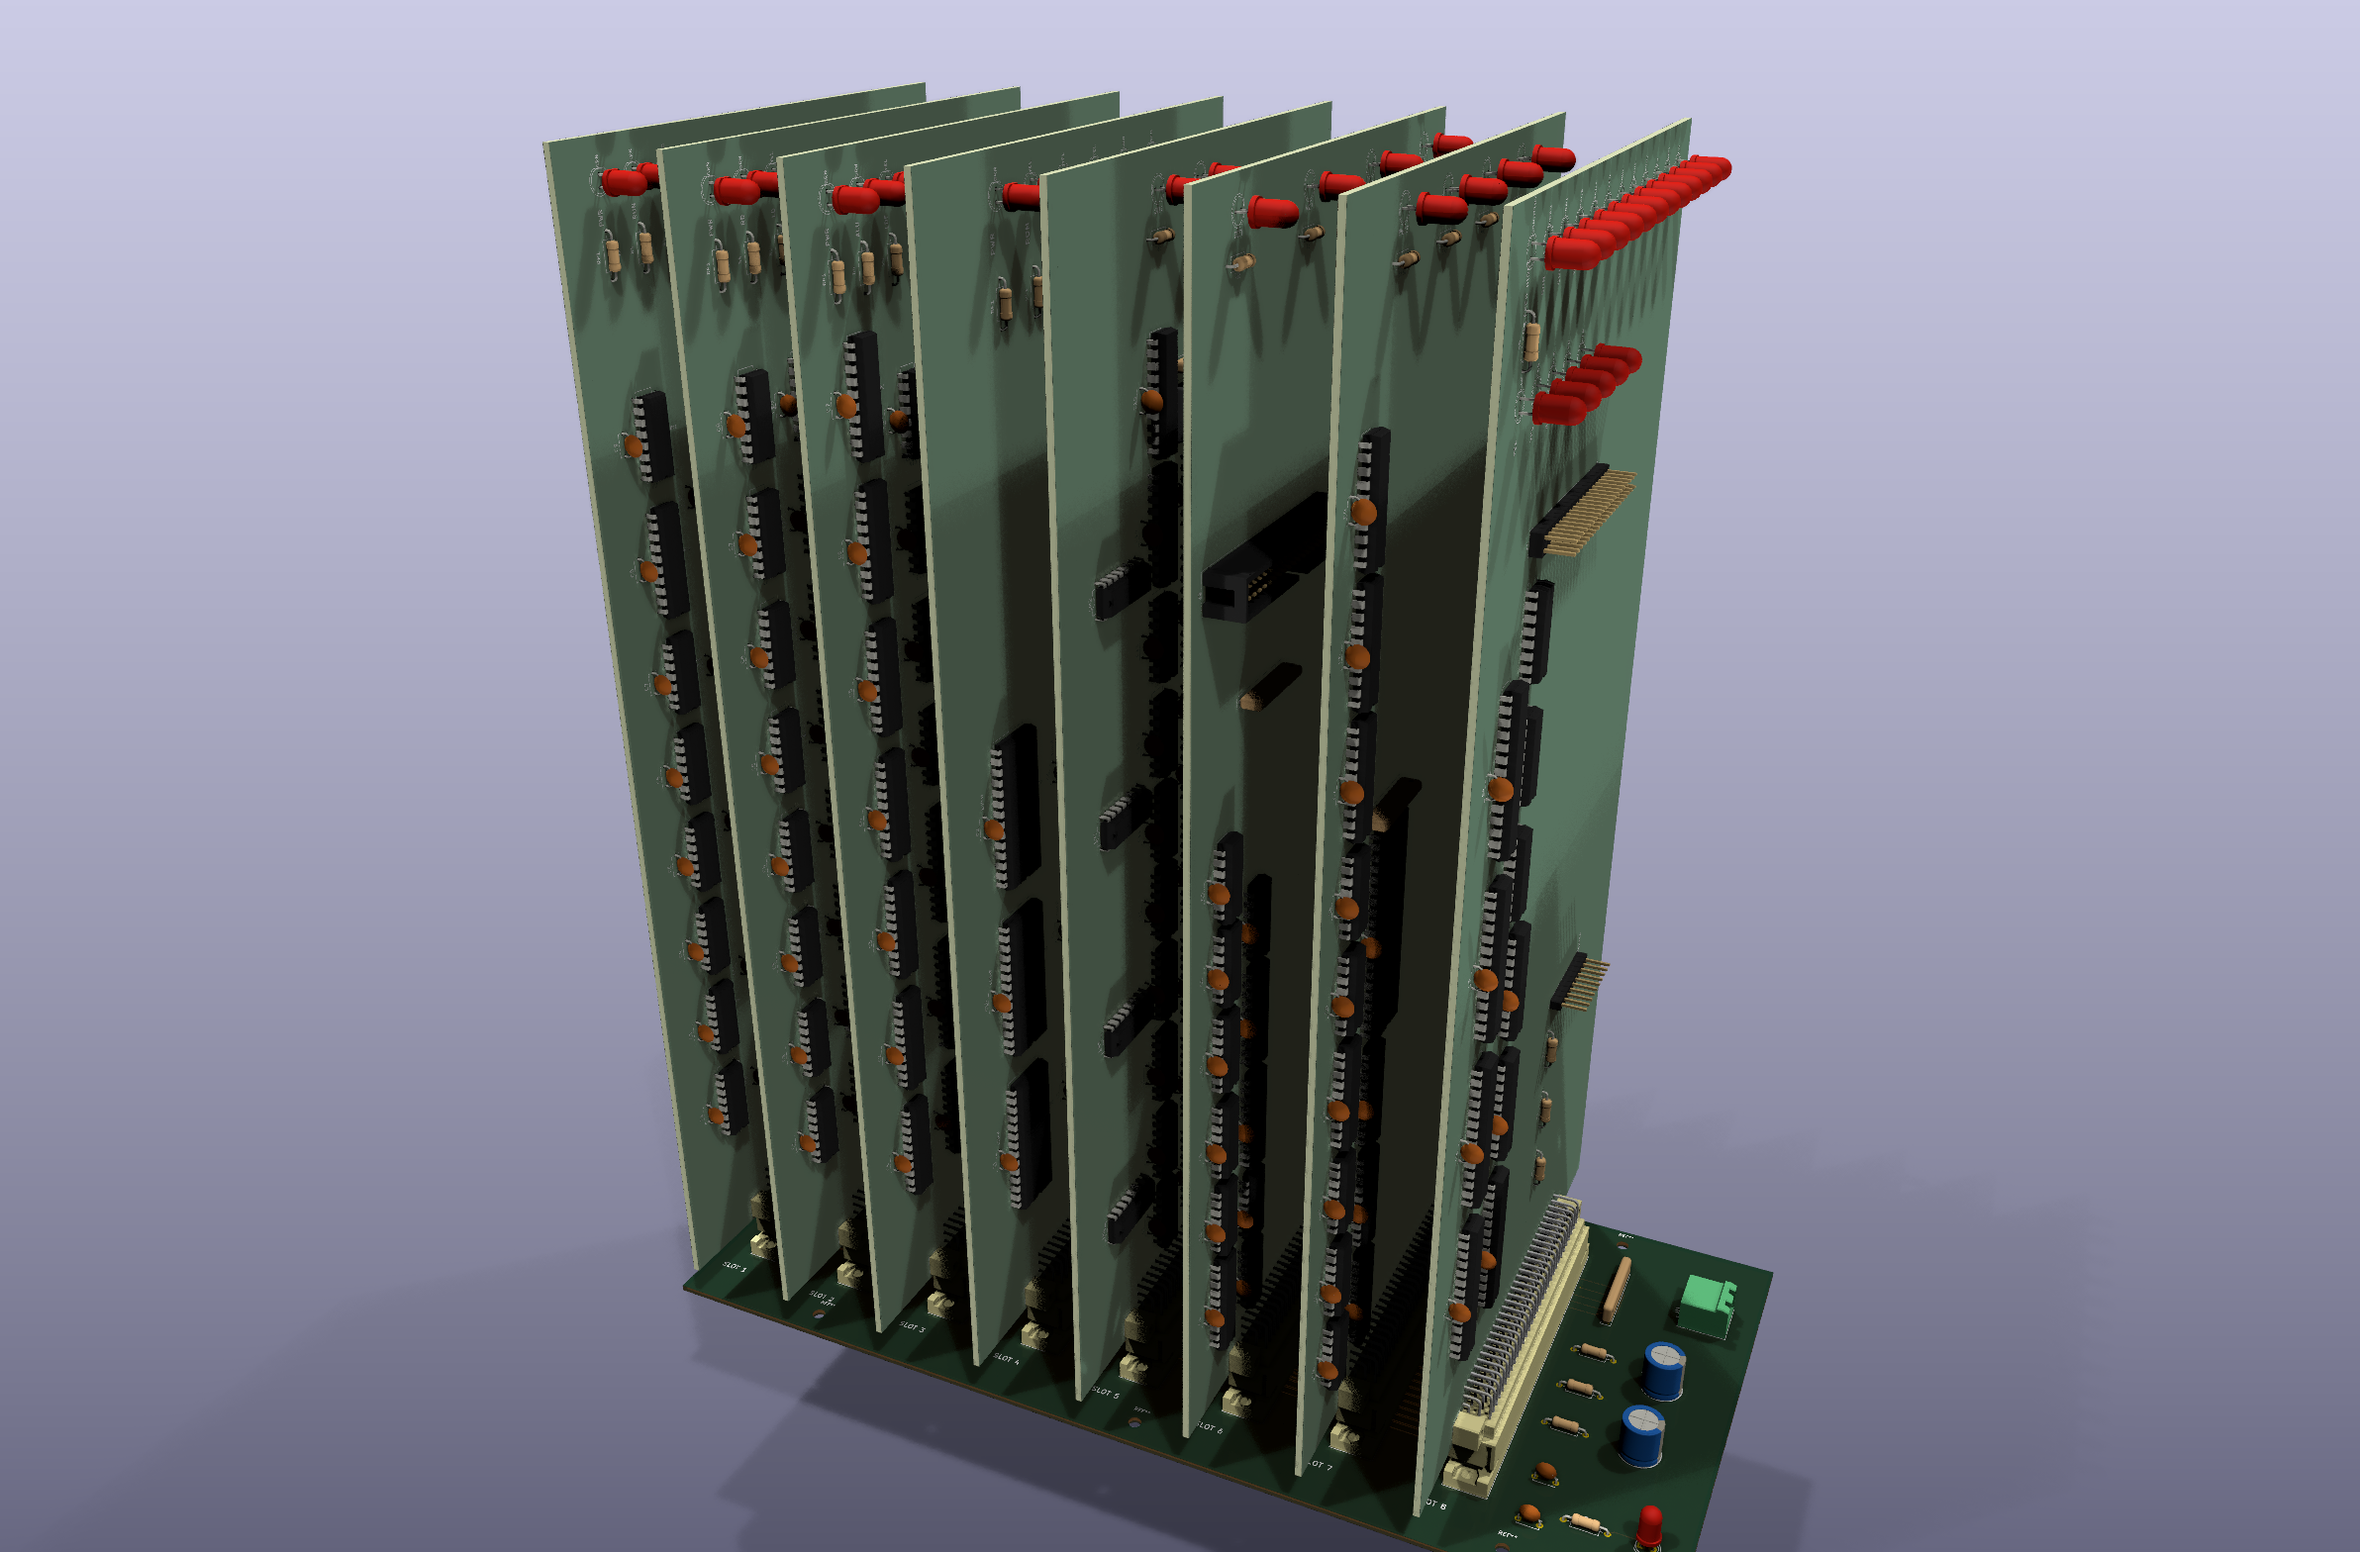
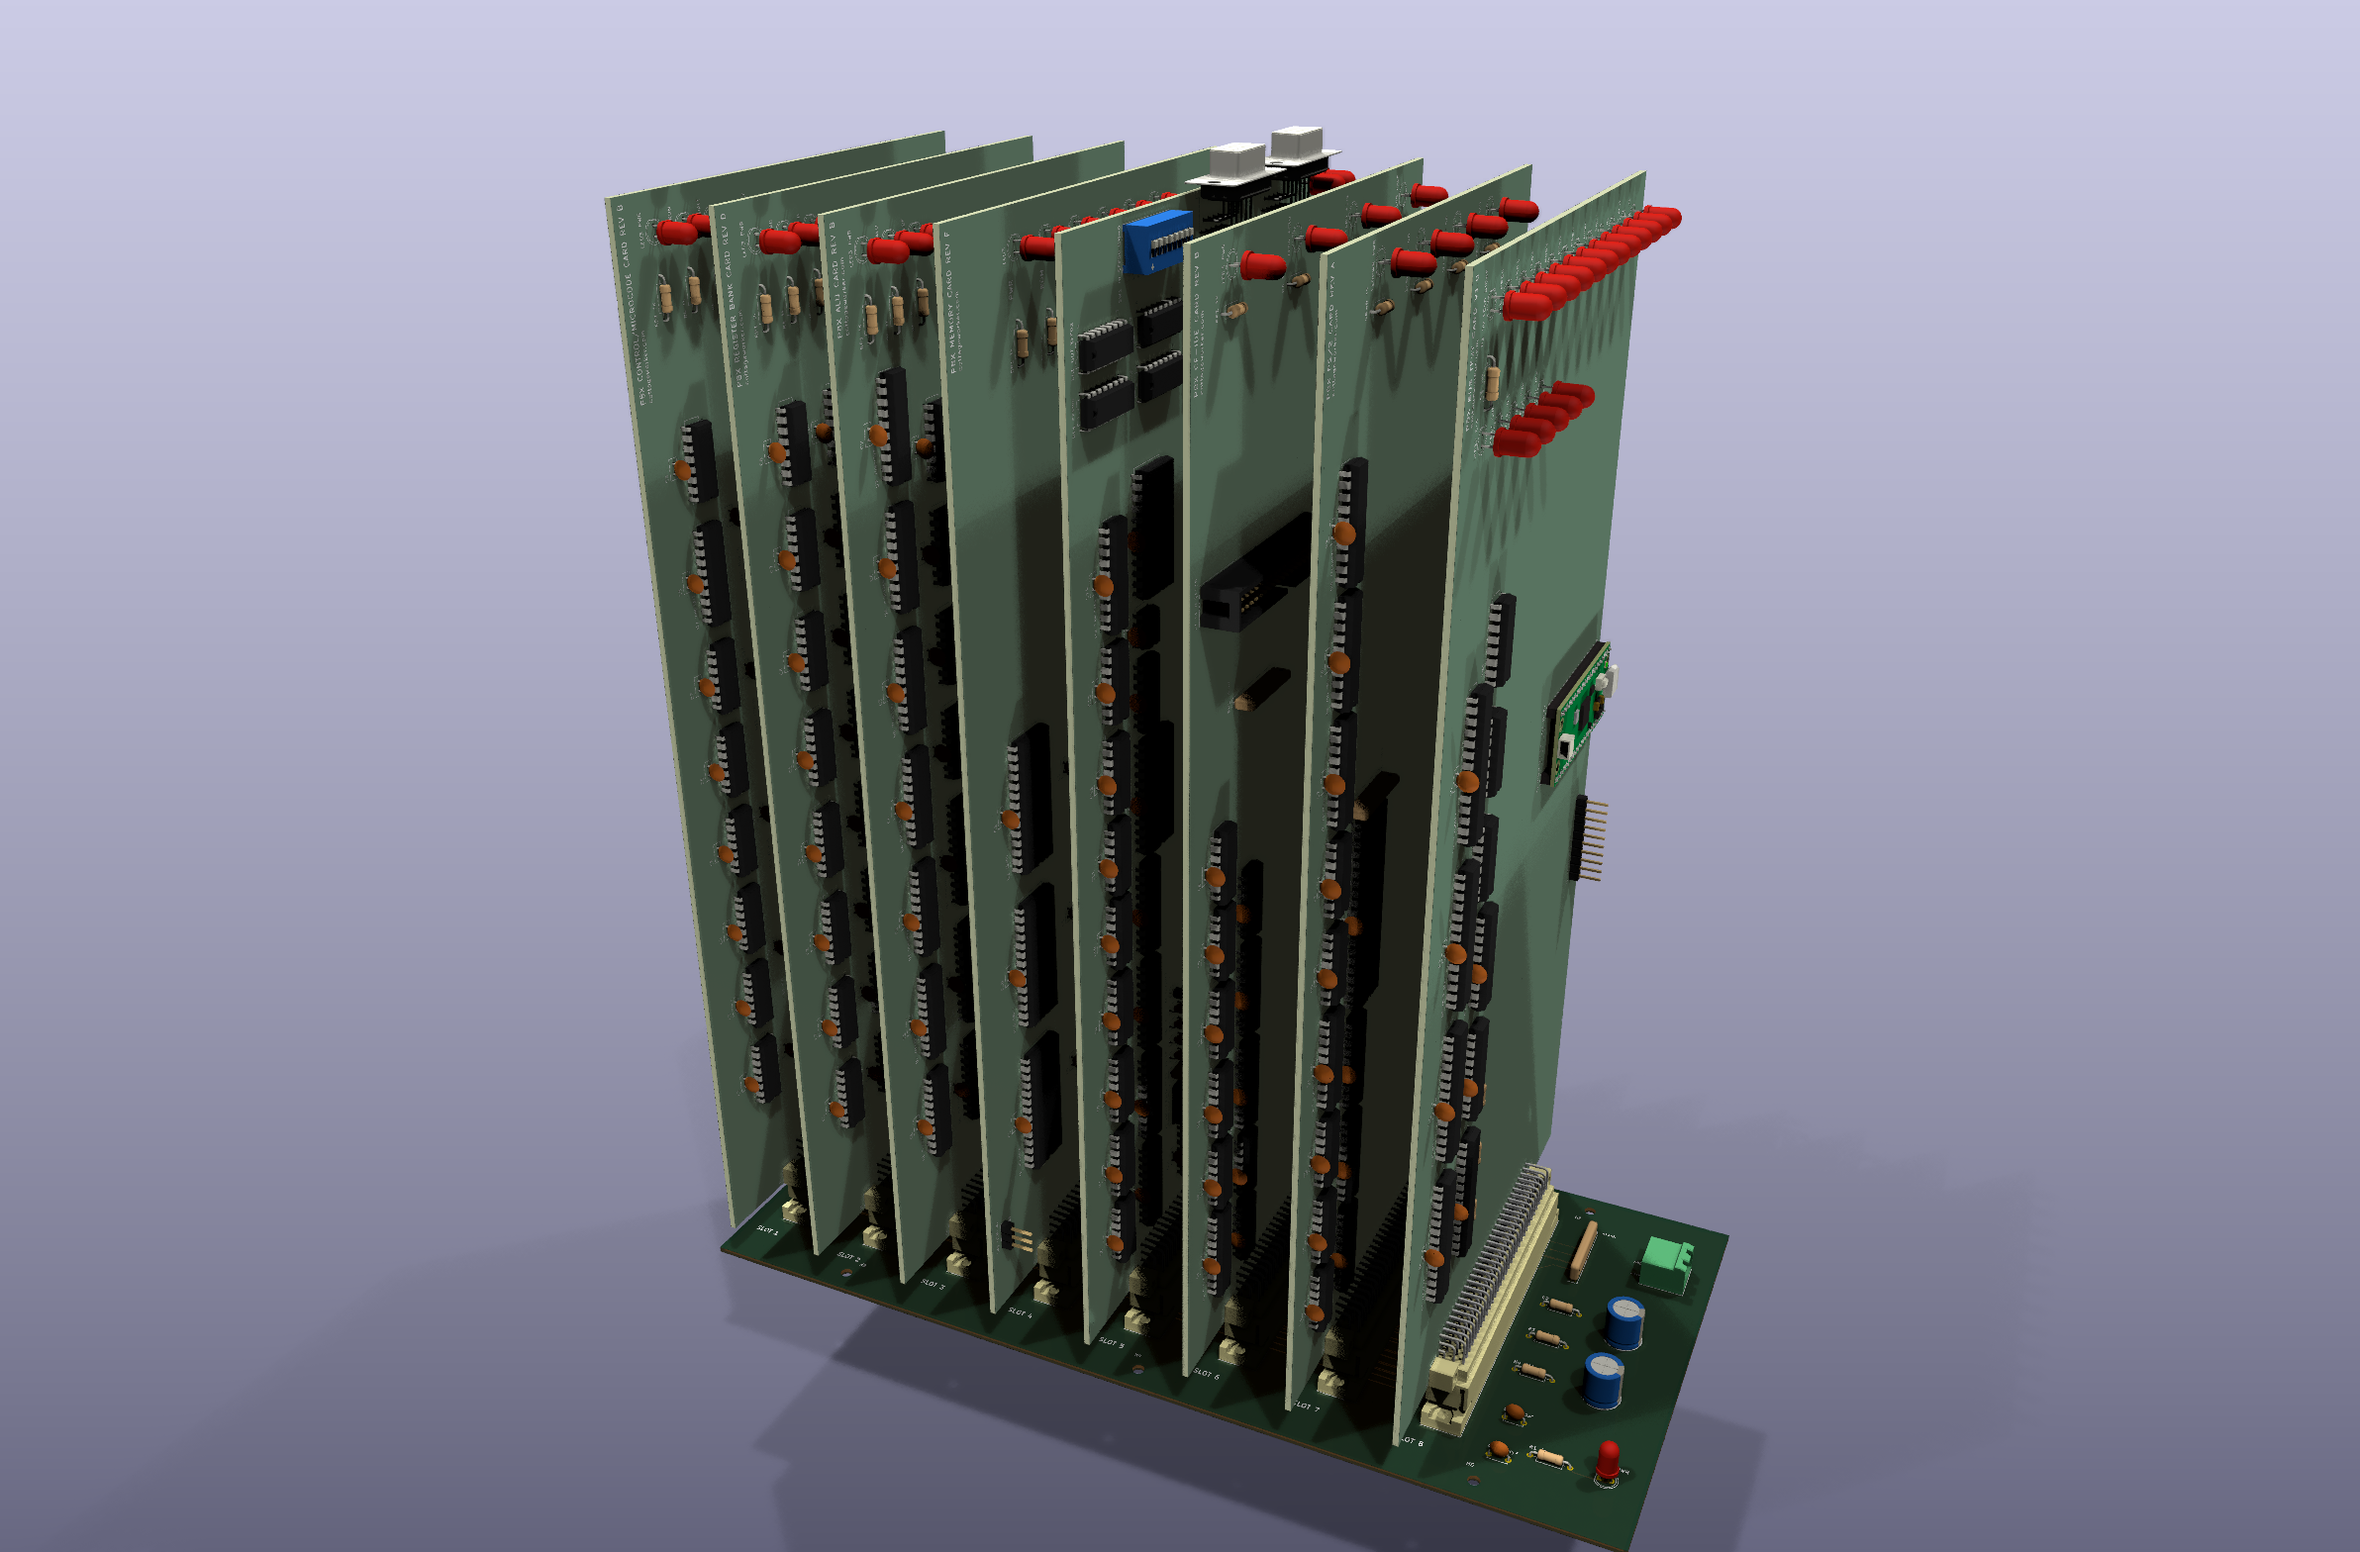
feat(website): the assembled-machine renders and the home page collage made again
From the boards as they are since the plugs moved (2026-11-17); the low view pulled back,
the seating height 12.81 mm, and make_collage.py makes the collage.

Changed region(s): [[0.2173, 0.0312, 0.776, 1.0]]

diff --git a/website/make_collage.py b/website/make_collage.py
@@ -1,0 +1,50 @@
+# Author: Claude (Anthropic) for Ken Rother, 2026
+"""Make the home page's lead picture, website/p8x-collage.jpg: the three assembled-machine renders
+(hardware/assembly/build.sh) and the memory card's 3D render, its connector at the bottom. Run it after either is
+rendered again:  website/venv/bin/python website/make_collage.py"""
+import os
+from PIL import Image
+
+HERE = os.path.dirname(os.path.abspath(__file__))
+HW = os.path.join(os.path.dirname(HERE), "hardware")
+W, H, GAP = 800, 600, 10
+
+
+def cover(path):
+    """The picture scaled to fill a tile, the overhang cut off evenly."""
+    im = Image.open(path).convert("RGB")
+    k = max(W / im.width, H / im.height)
+    im = im.resize((round(im.width * k), round(im.height * k)), Image.LANCZOS)
+    x, y = (im.width - W) // 2, (im.height - H) // 2
+    return im.crop((x, y, x + W, y + H))
+
+
+def whole(path):
+    """The whole picture in a tile, its own background (which only changes downwards) carried out to the sides."""
+    im = Image.open(path).convert("RGB").resize((round(H * Image.open(path).width / Image.open(path).height), H), Image.LANCZOS)
+    bg = im.crop((0, 0, 1, H)).resize((W, H))
+    bg.paste(im, ((W - im.width) // 2, 0))
+    return bg
+
+
+def card(path):
+    """A card render on the assembly renders' background, connector down."""
+    top, bottom = (201, 201, 229), (102, 102, 133)
+    bg = Image.new("RGB", (1, H))
+    for y in range(H): bg.putpixel((0, y), tuple(round(a + (b - a) * y / (H - 1)) for a, b in zip(top, bottom)))
+    bg = bg.resize((W, H))
+    im = Image.open(path).convert("RGBA")
+    im = im.crop(im.getchannel("A").point(lambda a: 255 if a > 128 else 0).getbbox()).rotate(90, expand=True)
+    im.thumbnail((W - 40, H - 30), Image.LANCZOS)
+    bg.paste(im, ((W - im.width) // 2, (H - im.height) // 2), im)
+    return bg
+
+
+tiles = [cover(os.path.join(HW, "assembly", "p8x-assembly-render.png")),
+         card(os.path.join(HW, "memory-card", "kicad", "p8x-memory-card-render-3d.png")),
+         cover(os.path.join(HW, "assembly", "p8x-assembly-render-low.png")),
+         whole(os.path.join(HW, "assembly", "p8x-assembly-render-side.png"))]
+out = Image.new("RGB", (2 * W + 3 * GAP, 2 * H + 3 * GAP), "white")
+for i, t in enumerate(tiles): out.paste(t, (GAP + (i % 2) * (W + GAP), GAP + (i // 2) * (H + GAP)))
+out.save(os.path.join(HERE, "p8x-collage.jpg"), quality=88, optimize=True)
+print("wrote website/p8x-collage.jpg")

diff --git a/website/stage.py b/website/stage.py
@@ -53,7 +53,7 @@ for rel in sorted(paths):
 # page (links to README.md from other documents are pointed at it by hooks.py)
 shutil.copy2(os.path.join(HERE, "home.md"), os.path.join(OUT, "index.md")); n += 1
 # the home page's lead picture: a collage of the assembled-machine renders and the memory card (website/p8x-collage.jpg,
-# made from hardware/assembly/*.png and hardware/memory-card/kicad/*-render-3d.png; replace it with photos once the
+# made by make_collage.py from hardware/assembly/*.png and hardware/memory-card/kicad/*-render-3d.png; replace it with photos once the
 # boards are built)
 os.makedirs(os.path.join(OUT, "media"), exist_ok=True)
 shutil.copy2(os.path.join(HERE, "p8x-collage.jpg"), os.path.join(OUT, "media", "p8x-collage.jpg")); n += 1

diff --git a/generators/render_assembly.py b/generators/render_assembly.py
@@ -66,7 +66,7 @@ VIEWS = [
      ["--rotate", "-45,0,-20", "--zoom", "0.68", "--perspective", "--floor",
       "-w", "2400", "-h", "1600"]),
     ("p8x-assembly-render-low.png",    # low view along the slots: connectors and seating
-     ["--rotate", "-65,0,-25", "--zoom", "0.72", "--perspective", "-w", "2400", "-h", "1600"]),
+     ["--rotate", "-65,0,-25", "--zoom", "0.66", "--perspective", "-w", "2400", "-h", "1600"]),
     ("p8x-assembly-render-side.png",   # orthographic elevation looking along the sockets
      ["--rotate", "-90,0,0", "--zoom", "0.8", "-w", "1800", "-h", "1600"]),
 ]

diff --git a/website/README.md b/website/README.md
@@ -7,7 +7,7 @@ a readable view of them, with navigation and search.
 | File | What |
 |---|---|
 | `home.md` | the visitor home page (the site's index) |
-| `p8x-collage.jpg` | the home page's lead picture: the assembled-machine renders and the memory card (until there are photos of built boards) |
+| `p8x-collage.jpg` | the home page's lead picture: the assembled-machine renders and the memory card (until there are photos of built boards), made by `make_collage.py` |
 | `stage.py` | copies the documents the site uses into `stage/`, keeping their repository paths so the links between them work, and generates the extra pages; puts a picture at the top of each board's own, theory and KiCad pages: a photo (`hardware/<board>/photos/*.jpg`) when there is one, else its KiCad render, captioned as which |
 | `hooks.py` | MkDocs hook: a link to a repository file that is not part of the site becomes a link to that file on GitHub (branch `main`); each board's Hardware menu gets a "KiCad board" item (its `kicad/README.md`, with the revision `hardware/KICAD-BOARDS.md` names); the build names any render older than its board |
 | `mkdocs.yml` | the site: navigation, theme, Markdown extensions |

diff --git a/hardware/assembly/README.md b/hardware/assembly/README.md
@@ -46,7 +46,7 @@ the left end of the backplane (silkscreen `SLOT 1`), away from the power entry.
   row a of the socket.
 - **Seating.** The cards are fully mated: the top face of each female socket
   (11.6 mm above the backplane) meets the inner face of the card connector's shroud.
-  That puts the card's lower edge 11.35 mm above the backplane surface.
+  That puts the card's lower edge 12.81 mm above the backplane surface.
 - **Overhang.** The 140 mm card edge is longer than the 128 mm backplane, and the
   connector is centred on the card but not on the backplane, so each card extends
   8 mm past one end of the backplane and 4 mm past the other.
